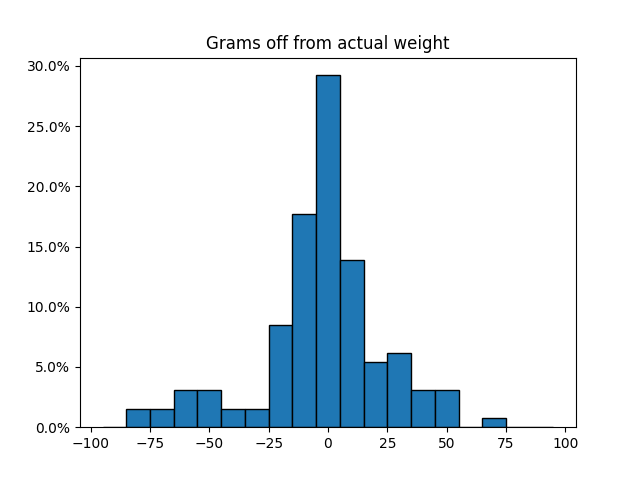
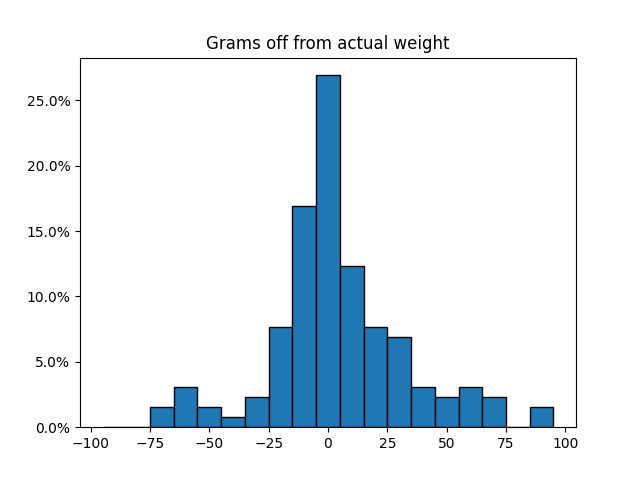
Fixed results, just to be sure, also tying out links without github link

diff --git a/docs/index.md b/docs/index.md
@@ -16,7 +16,7 @@ Our dataset for this problem consists of homemade pictures of fruits. The datase
 
 | A banana of 148 grams | A banana of 173 grams | A banana of 188 grams |
 | :-------------------: | :-------------------: | :-------------------: |
-| ![banana 148g](https://koendubuf.github.io/CVbyDL-Object-Property-Inference/images/banana_148g_5_1.jpg) |  ![banana 173g](https://koendubuf.github.io/CVbyDL-Object-Property-Inference/images/banana_173g_6_1.JPG) | ![banana 173g](https://koendubuf.github.io/CVbyDL-Object-Property-Inference/images/banana_188g_3_1.jpg) |
+| ![banana 148g](images/banana_148g_5_1.jpg) |  ![banana 173g](images/banana_173g_6_1.JPG) | ![banana 173g](images/banana_188g_3_1.jpg) |
 
 <p></p>
 
@@ -46,9 +46,9 @@ We will also visualize the results of each of our approaches in a histogram with
 
 # A first test: Fruit classification + weight averages
 
-We made a CNN that classified the images just by their fruit class. For this classifier we tried various network architectures, trained from scratch. The architecture that got the best performance reached a <span class="tooltip"> classification accuracy of 91.5% <span class="tooltiptext">In perspective: random guessing would give a 1/7 = 14% classification accuracy</span> </span>, this result was obtained by using transfer learning on a pre-trained ResNet18 model.
+We made a CNN that classified the images just by their fruit class. For this classifier we tried various network architectures, trained from scratch. The architecture that got the best performance reached a <span class="tooltip"> classification accuracy of 89.5% <span class="tooltiptext">In perspective: random guessing would give a 1/7 = 14% classification accuracy</span> </span>, this result was obtained by using transfer learning on a pre-trained ResNet18 model.
 
-So we can classify fruits, that means that we already have the most simple CNN for weight estimation: we can have our fruit classifier guess the fruit and then take the average weight of that fruit as our weight estimation. While this approach sounds simplistic, it is likely the basis of what any CNN will do. This method resulted in ```2.2```, ```11.6```, and ```50.5``` for the 10th, 50th and 90th percentile of the absolute difference, and of course we also plotted these results below:
+So we can classify fruits, that means that we already have the most simple CNN for weight estimation: we can have our fruit classifier guess the fruit and then take the average weight of that fruit as our weight estimation. While this approach sounds simplistic, it is likely the basis of what any CNN will do. This method resulted in ```2.6```, ```12.8```, and ```55.3``` for the 10th, 50th and 90th percentile of the absolute difference, and of course we also plotted these results below:
 
 ![fruit classify strategy](https://koendubuf.github.io/CVbyDL-Object-Property-Inference/results/resnet18_fruit_classify.png)
 
@@ -57,14 +57,14 @@ So we can classify fruits, that means that we already have the most simple CNN f
 
 Next we tried to train a single CNN to classify the fruits again, but this time we tried to classify them by their weight range. This means that instead of 1 label for each fruit class, <span class="tooltip">we created classes for every N grams<span class="tooltiptext"> So, we have classes 0-N, N-2N, 2N-3N, etc... </span> </span>, the model was then trained to predict the weight class. When testing the estimations of this strategy we took the window range that the classifier gave, and took the average value in that range as the weight guessed by the model. The best result using this approach was again by using transfer learning on a pre-trained ResNet18 model. This approach took slightly longer to train, but did obtain good results, improving over the simple fruit classification strategy.
 
-After some testing we concluded that the best performing bucket size (N) was 2 grams, which gave us ```0.0```, ```5.0```, and ```60.1``` for the 10th, 50th and 90th percentile of the absolute difference, respectively. Getting 0 for the 10th percentile means that we have a 10% chance to estimate the exact right weight, and a 50% chance to be off by 5 or less grams is also quite a good score! Again, we also visualize the results of this approach below:
+After some testing we concluded that the best performing bucket size (N) was 2 grams, which gave us ```0.0```, ```7.5```, and ```60.1``` for the 10th, 50th and 90th percentile of the absolute difference, respectively. Getting 0 for the 10th percentile means that we have a 10% chance to estimate the exact right weight, and a 50% chance to be off by 5 or less grams is also quite a good score! Again, we also visualize the results of this approach below:
 
 ![weight window strategy](https://koendubuf.github.io/CVbyDL-Object-Property-Inference/results/resnet18_weight_window.png)
 
 # Another try: Regression on a single model output
 
-Finally we created a model that output just a single number for the weight of the fruit in the image. The results of this model were worse than the other 2 methods, but not by that much, it obtained a score of ```4.5```, ```23.7```, and ```55.1``` for the 3 percentiles in order. These results are also graphed below, where we see visually that it does not do nearly as good as the other 2 models ![weight reguression strategy](https://koendubuf.github.io/CVbyDL-Object-Property-Inference/results/resnet18_weight_regression.png)
+Finally we created a model that output just a single number for the weight of the fruit in the image. The results of this model were worse than the other 2 methods, but not by that much, it obtained a score of ```3.9```, ```24.8```, and ```54.3``` for the 3 percentiles in order. These results are also graphed below, where we see visually that it does not do nearly as good as the other 2 models ![weight regression strategy](https://koendubuf.github.io/CVbyDL-Object-Property-Inference/results/resnet18_weight_regression.png)
 
 # Conclusion
 
-When looking at these strategies, we can conclude that the CNN will focus mostly on which fruit is in the picture, while taking a little extra information from the image to guess a
+When comparing the results of these strategies, we see that
